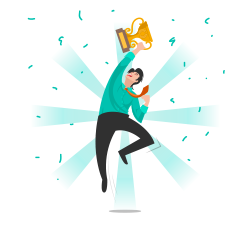
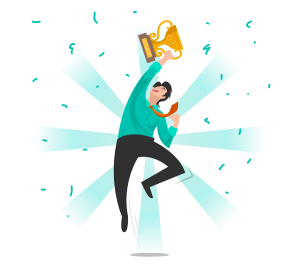
Resize success image

diff --git a/client/src/components/Shop/ShopModal.js b/client/src/components/Shop/ShopModal.js
@@ -1,6 +1,8 @@
 import React from 'react';
 import { Link } from 'react-router-dom';
 import { Modal, Button, Badge } from 'react-bootstrap';
+import { FontAwesomeIcon } from '@fortawesome/react-fontawesome';
+import { faCheckSquare } from '@fortawesome/free-solid-svg-icons';
 
 import purchaseSuccessful from './../../img/success.png';
 
@@ -14,14 +16,13 @@ export default ({ show }) => {
         centered
       >
         <Modal.Title className="ShopModal-title">
+          <FontAwesomeIcon icon={faCheckSquare} />
           Purchase Successful
         </Modal.Title>
         <Modal.Body>
           <div className="Result-wrapper">
             <img src={purchaseSuccessful} />
-            {/* <Badge variant="success">Purchase Successful!</Badge> */}
           </div>
-
           <Link to="/">
             <Button variant="none" className="Home-btn">
               Home

diff --git a/client/src/components/Shop/Shop.scss b/client/src/components/Shop/Shop.scss
@@ -156,12 +156,17 @@
 }
 
 .ShopModal-title {
-  text-align: center;
-  background-color: $bg-green;
-  padding: 1.2rem 0rem;
-  margin-left: 0rem;
-}
+  text-align: left;
+  // background-color: $bg-green;
+  border-bottom: 1px solid $border-color;
+  padding: 0.5rem 0rem;
+  margin-left: 0;
+  padding-left: 4rem;
+  font-size: 2rem;
 
-// .ShopModal {
-//   width: 50%;
-// }
+  svg {
+    margin-right: 1rem;
+    font-size: 2rem;
+    color: $bg-green;
+  }
+}
